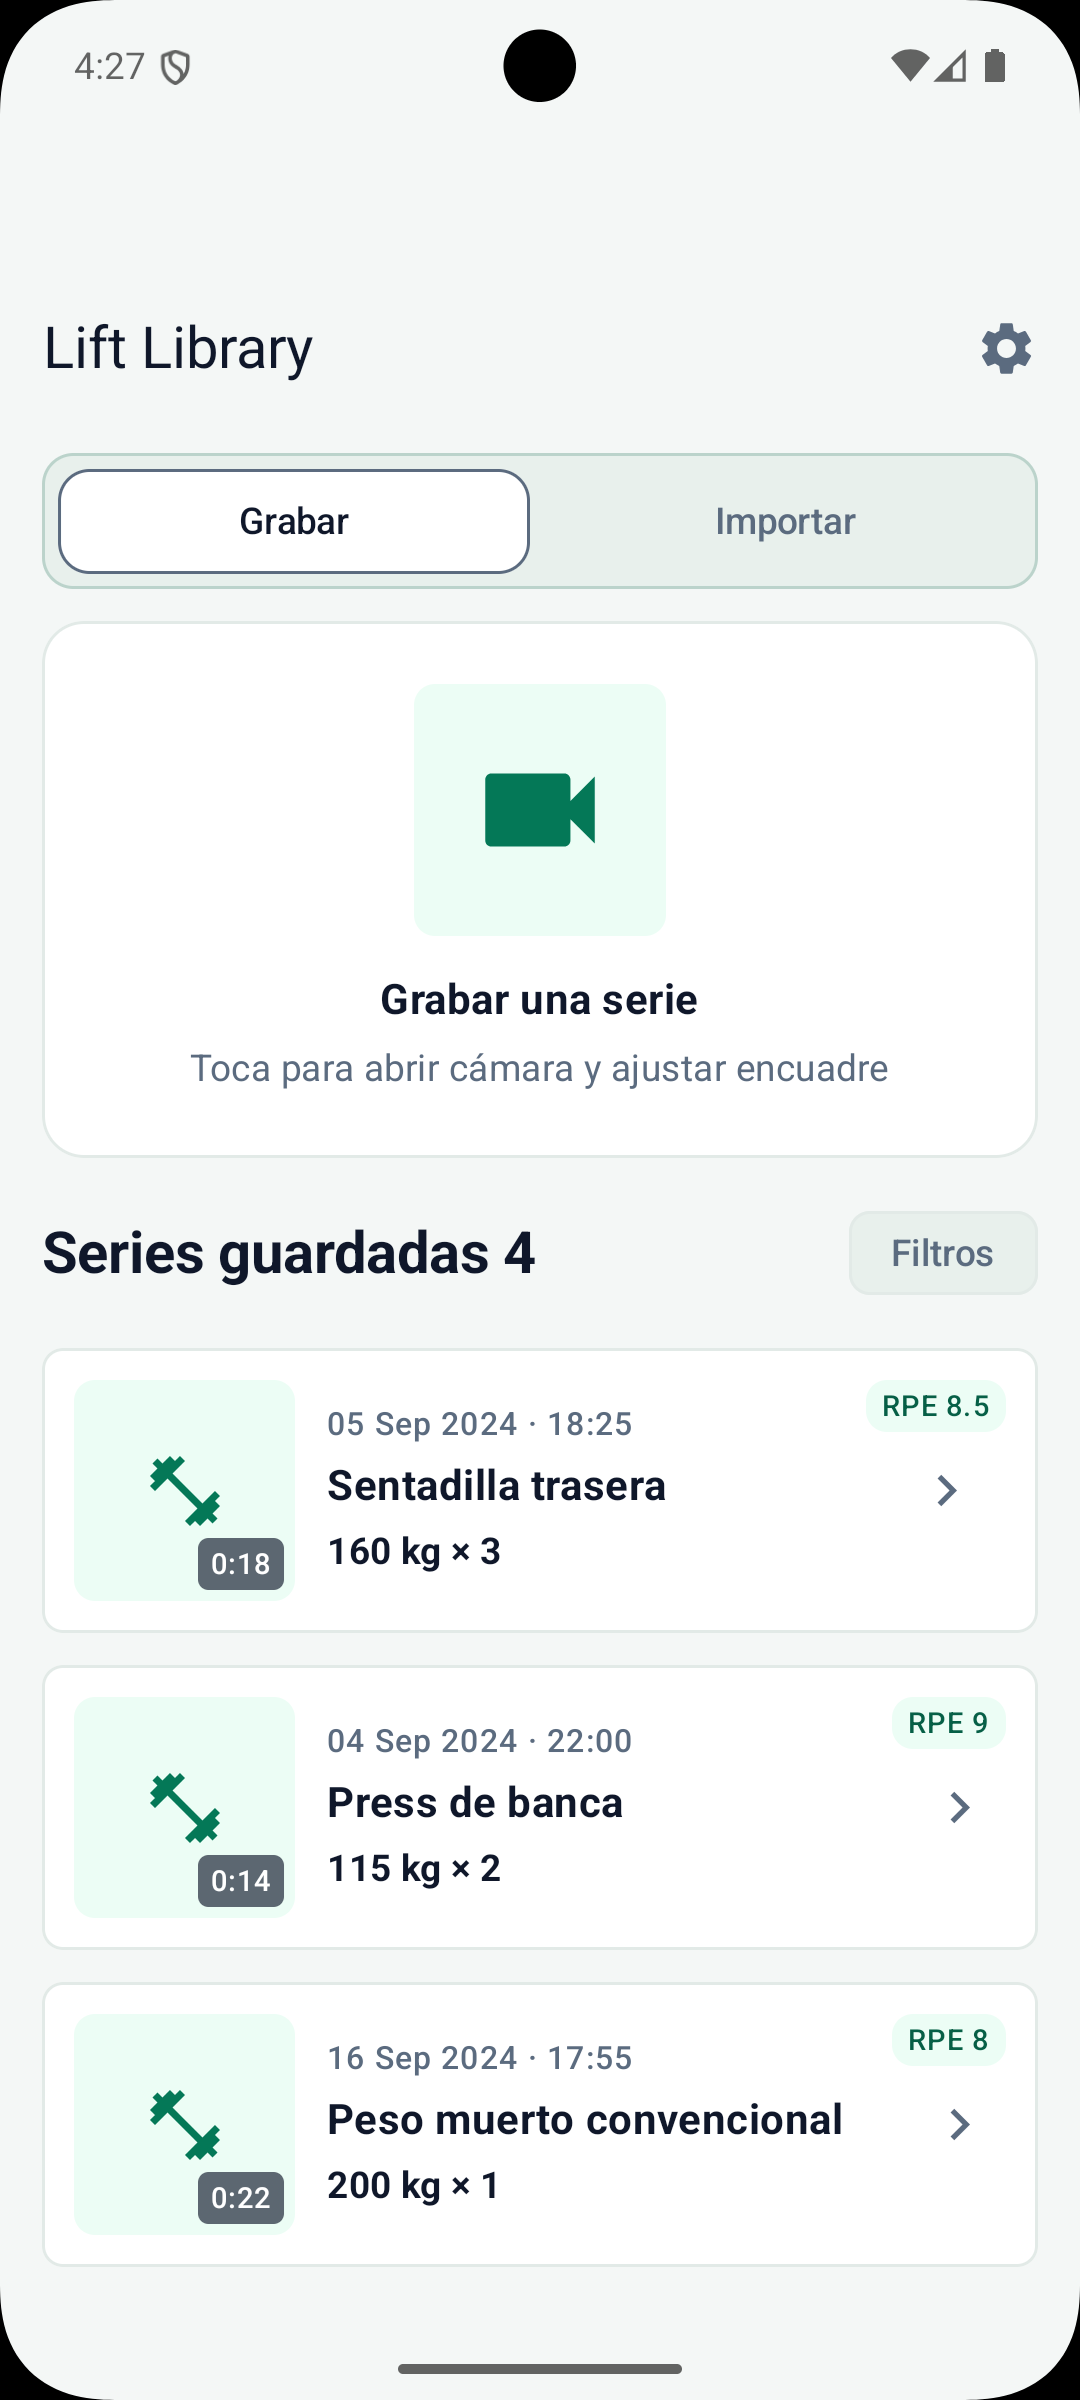
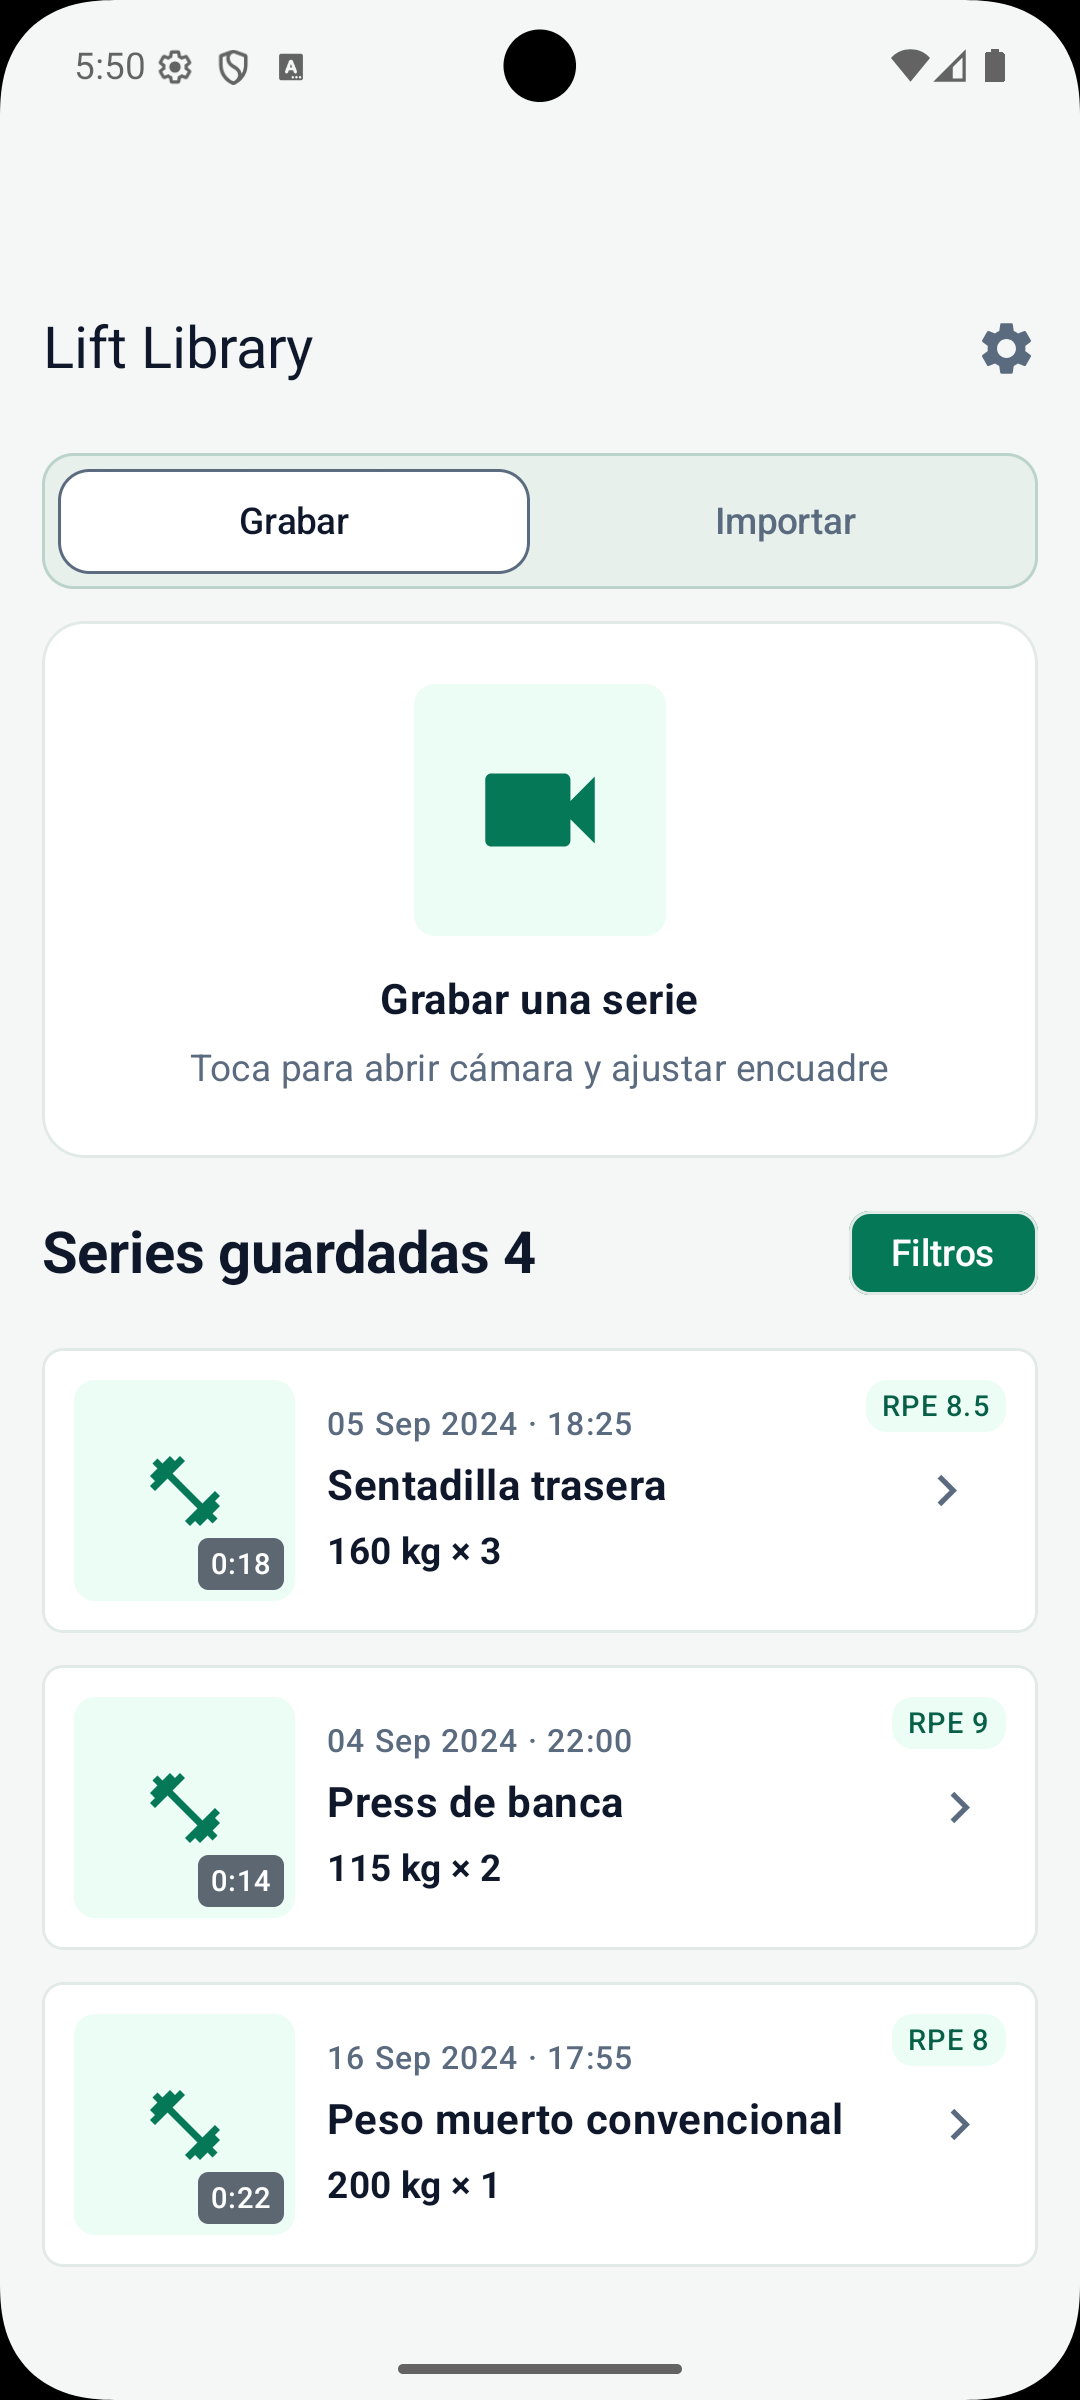
[STL-1]: Update filter chip colores and update screenshot

diff --git a/Project/app/src/main/java/com/jclopez/setlens/presentation/screen/home/component/SavedSeriesHeader.kt b/Project/app/src/main/java/com/jclopez/setlens/presentation/screen/home/component/SavedSeriesHeader.kt
@@ -35,8 +35,8 @@ fun SavedSeriesHeader(
             selected = false,
             onClick = onFilterClick,
             colors = FilterChipDefaults.filterChipColors().copy(
-                labelColor = MaterialTheme.colorScheme.onSurfaceVariant,
-                containerColor = MaterialTheme.colorScheme.surfaceContainer,
+                labelColor = MaterialTheme.colorScheme.onPrimary,
+                containerColor = MaterialTheme.colorScheme.primary,
             ),
             label = { Text(stringResource(R.string.home_filter_label)) },
         )
